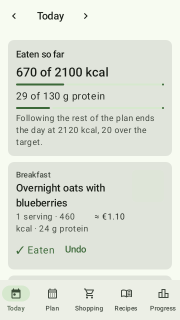
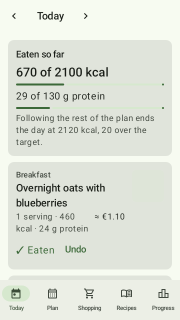
Dutch tab labels fit at 360 dp; the shopping week stays readable at font 2.0 (#233)
* Dutch tab labels fit at 360 dp, and the shopping week stays readable at font 2.0

The Dutch Shopping tab was shrunk to a few pixels to fit its tab; the tab now reads
"Inkopen". The week stepper shrinks its label to fit instead of cutting the date.
Shots pin both: the Dutch shell, and the Shopping header at font 2.0 in both languages.

* Keep Boodschappen on the Dutch tab; the bar's labels get a smaller size and no letter spacing

The owner prefers Boodschappen over Inkopen. All five labels now share 10 sp without
letter spacing instead of one label shrinking to 8 sp, so the longest fits whole.

---------

diff --git a/composeApp/src/androidHostTest/kotlin/dev/tobins/mealplanner/app/ScreenshotTest.kt b/composeApp/src/androidHostTest/kotlin/dev/tobins/mealplanner/app/ScreenshotTest.kt
@@ -144,11 +144,11 @@ private const val FOCUSED = "focused"
 
 /** The whole app as it starts for someone who is logged in: the bottom bar lives here, not in a screen. */
 @Composable
-private fun shell(settings: ServerSettings) {
+private fun shell(settings: ServerSettings, language: AppLanguage = AppLanguage.ENGLISH) {
     val storage = remember {
         MemorySettingsStorage().also {
             it.saveSession(Session("token", expiresAt = Long.MAX_VALUE))
-            it.saveAppLanguage(AppLanguage.ENGLISH)
+            it.saveAppLanguage(language)
         }
     }
     val launcher = remember {
@@ -176,6 +176,8 @@ enum class Shot(
     val dutch: Boolean = false,
     val heightDp: Int = 640,
     val profile: Profile? = null,
+    /** A font scale of its own instead of the look's, for a size a screen must survive that the looks do not cover. */
+    val fontScale: Float? = null,
     val content: @Composable (ApiClient, ServerSettings) -> Unit,
 ) {
     TODAY(heightDp = 1300, content = { api, _ -> TodayScreen(api, { _, _ -> }, {}) }),
@@ -253,6 +255,11 @@ enum class Shot(
     // What adding a recipe with an ingredient still to link says: two actions, in a snackbar.
     SNACKBAR_LINK(heightDp = 200, content = { _, _ -> addedSnackbar() }),
     SNACKBAR_LINK_NL(dutch = true, heightDp = 200, content = { _, _ -> addedSnackbar() }),
+    // In Dutch, where "Boodschappen" and "Voortgang" are the longest labels of the bottom bar (#190).
+    SHELL_NL(dutch = true, content = { _, settings -> shell(settings, AppLanguage.DUTCH) }),
+    // The week of the shopping list must stay readable at the largest font setting (#190).
+    SHOPPING_HEADER_X2(heightDp = 700, fontScale = 2.0f, content = { api, _ -> shopping(api, shoppingMode = false) }),
+    SHOPPING_HEADER_X2_NL(dutch = true, heightDp = 700, fontScale = 2.0f, content = { api, _ -> shopping(api, shoppingMode = false) }),
     SHELL(content = { _, settings -> shell(settings) }),
     // The dialog's body: a dialog is a window of its own that the picture of the frame does not include.
     UPDATE_NOTES(content = { _, _ ->
@@ -381,7 +388,7 @@ class ScreenshotTest(private val shot: Shot, private val look: Look) {
         // Pictures come from a fake loader: a screenshot must never wait for, or depend on, the stores' servers.
         val pictures = remember { fakeImageLoader(RuntimeEnvironment.getApplication(), failing = { "feta" in it }) }
         CompositionLocalProvider(
-            LocalDensity provides Density(density.density, look.fontScale),
+            LocalDensity provides Density(density.density, shot.fontScale ?: look.fontScale),
             LocalStrings provides if (shot.dutch) Strings.Dutch else Strings.English,
             LocalProductImageLoader provides pictures,
             LocalRecipeImages provides RecipeImages(pictures, "http://fake", { null }),

diff --git a/composeApp/src/commonMain/kotlin/dev/tobins/mealplanner/app/Chrome.kt b/composeApp/src/commonMain/kotlin/dev/tobins/mealplanner/app/Chrome.kt
@@ -13,6 +13,7 @@ import androidx.compose.foundation.layout.offset
 import androidx.compose.foundation.layout.size
 import androidx.compose.foundation.layout.widthIn
 import androidx.compose.foundation.rememberScrollState
+import androidx.compose.foundation.text.TextAutoSize
 import androidx.compose.foundation.verticalScroll
 import androidx.compose.material3.AlertDialog
 import androidx.compose.material3.Button
@@ -49,6 +50,7 @@ import androidx.compose.ui.text.TextStyle
 import androidx.compose.ui.text.style.TextAlign
 import androidx.compose.ui.text.style.TextOverflow
 import androidx.compose.ui.unit.dp
+import androidx.compose.ui.unit.sp
 
 /*
  * The pieces every screen's top bar is built from, so that bars look and behave the same
@@ -179,10 +181,13 @@ fun MealNumbers(macros: String, cost: String?, modifier: Modifier = Modifier) {
 fun PeriodStepper(label: String, previous: String, next: String, onPrevious: () -> Unit, onNext: () -> Unit) {
     Row(Modifier.offset(x = (-12).dp), verticalAlignment = Alignment.CenterVertically) {
         BarAction(AppIcons.ChevronLeft, previous, onPrevious)
+        val style = MaterialTheme.typography.titleMedium
         Text(
             label,
-            style = MaterialTheme.typography.titleMedium,
+            style = style,
             maxLines = 1,
+            // With a large font the label shrinks to fit rather than lose the date it is there for.
+            autoSize = TextAutoSize.StepBased(minFontSize = 8.sp, maxFontSize = style.fontSize),
             overflow = TextOverflow.Ellipsis,
             textAlign = TextAlign.Center,
             // Wide enough for a date, so the second chevron stays put while stepping through days.

diff --git a/composeApp/src/commonMain/kotlin/dev/tobins/mealplanner/app/App.kt b/composeApp/src/commonMain/kotlin/dev/tobins/mealplanner/app/App.kt
@@ -40,7 +40,6 @@ import androidx.compose.ui.platform.LocalDensity
 import androidx.compose.ui.unit.Density
 import androidx.compose.ui.unit.dp
 import androidx.compose.ui.unit.sp
-import androidx.compose.foundation.text.TextAutoSize
 
 /**
  * Root of the app: five tabs (Today, Plan, Shopping, Recipes, Progress) and the
@@ -458,11 +457,13 @@ enum class Tab(val slug: String, val label: Msg, val icon: ImageVector, val sele
 private fun NavigationLabel(text: String) {
     val density = LocalDensity.current
     CompositionLocalProvider(LocalDensity provides Density(density.density, fontScale = minOf(density.fontScale, MaxLabelFontScale))) {
-        val style = MaterialTheme.typography.labelSmall
-        // A longer word ("Boodschappen") shrinks to fit its tab instead of being cut off.
-        Text(text, maxLines = 1, softWrap = false, style = style, autoSize = TextAutoSize.StepBased(minFontSize = 8.sp, maxFontSize = style.fontSize))
+        // All five share one size, a little under the theme's, and without letter spacing, so the longest word ("Boodschappen") fits its tab whole.
+        Text(text, maxLines = 1, softWrap = false, style = MaterialTheme.typography.labelSmall.copy(fontSize = LabelFontSize, letterSpacing = 0.sp))
     }
 }
+
+/** The size of the bottom bar labels before the font scale: "Boodschappen" in Dutch is the widest. */
+private val LabelFontSize = 10.sp
 
 /** The font scale at which "Progress" still clears its tab's edges on a 360 dp wide screen. */
 private const val MaxLabelFontScale = 1.15f
